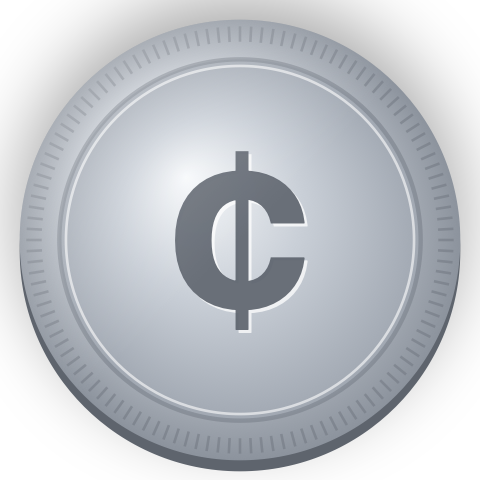
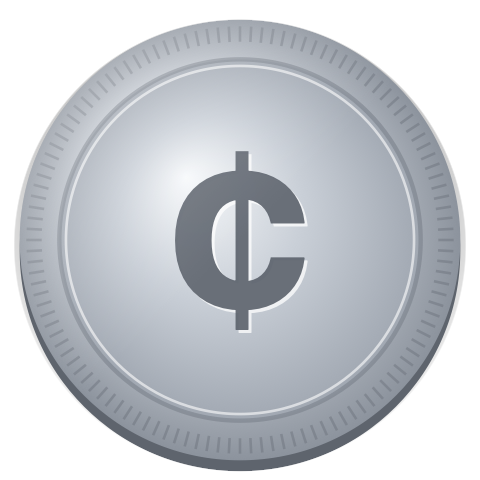
Website: remove the shadow baked into coin.png that was cut off at the image edge (the line above the coin)

Changed region(s): [[0.0, 0.0, 1.0, 0.6562]]

diff --git a/test2.html b/test2.html
@@ -509,7 +509,7 @@
     <div class="aurora" aria-hidden="true"><i></i><i></i><i></i></div>
     <div id="drift" aria-hidden="true"></div>
     <div class="wrap" style="position:relative">
-      <div class="brand"><img src="/img/coin.png" alt="" />Coin Purse</div>
+      <div class="brand"><img src="/img/coin.png?v=2" alt="" />Coin Purse</div>
       <div class="hero-grid">
         <div>
           <h1 id="headline"><span class="split">Your wallet is for the dollars.</span><br /><span class="silver split">This is for the small change.</span></h1>
@@ -523,7 +523,7 @@
         </div>
         <div class="coin-stage" aria-hidden="true">
           <div class="coin-shadow" id="coin-shadow"></div>
-          <div class="coin-3d" id="coin3d"><img class="coin" src="/img/coin.png" alt="" /></div>
+          <div class="coin-3d" id="coin3d"><img class="coin" src="/img/coin.png?v=2" alt="" /></div>
           <div class="orbit">
             <span class="chip a"><i style="background:#22c55e"></i>Tailgate tickets · 2</span>
             <span class="chip b"><i style="background:#f97316"></i>Coffee gift card</span>
@@ -595,7 +595,7 @@
             <h3>Locked with Face ID.</h3>
             <p>Sign in once and stay signed in.  Your coins are private to your account.  Free, with no ads and no tracking.</p>
           </div>
-          <div class="stagebox"><div class="mp"><div class="scr"><div class="fid"><div><img src="/img/coin.png" alt="" /><small>Coin Purse is locked</small><svg viewBox="0 0 24 24" fill="none" stroke="currentColor" stroke-width="1.6" stroke-linecap="round"><path d="M7 3H5a2 2 0 0 0-2 2v2M17 3h2a2 2 0 0 1 2 2v2M7 21H5a2 2 0 0 1-2-2v-2M17 21h2a2 2 0 0 0 2-2v-2M9 9v1M15 9v1M12 9v4h-1M9.5 16c1.5 1 3.5 1 5 0"/></svg></div></div></div></div></div>
+          <div class="stagebox"><div class="mp"><div class="scr"><div class="fid"><div><img src="/img/coin.png?v=2" alt="" /><small>Coin Purse is locked</small><svg viewBox="0 0 24 24" fill="none" stroke="currentColor" stroke-width="1.6" stroke-linecap="round"><path d="M7 3H5a2 2 0 0 0-2 2v2M17 3h2a2 2 0 0 1 2 2v2M7 21H5a2 2 0 0 1-2-2v-2M17 21h2a2 2 0 0 0 2-2v-2M9 9v1M15 9v1M12 9v4h-1M9.5 16c1.5 1 3.5 1 5 0"/></svg></div></div></div></div></div>
         </div>
       </div>
     </div>
@@ -620,7 +620,7 @@
   </section>
   <section class="cta" id="cta">
     <div class="wrap reveal">
-      <img src="/img/coin.png" alt="" />
+      <img src="/img/coin.png?v=2" alt="" />
       <h2>A simple app for simple things.</h2>
       <p class="lead">Snap it.  Find it.  Toss it.  Coin Purse is coming soon to the App Store for iPhone.</p>
       <span class="badge">Coming soon to the App Store</span>
@@ -655,7 +655,7 @@
         const drift = $('#drift');
         for (let i = 0; i < 14; i++) {
           const img = document.createElement('img');
-          img.src = '/img/coin.png'; img.alt = ''; img.className = 'drift-coin';
+          img.src = '/img/coin.png?v=2'; img.alt = ''; img.className = 'drift-coin';
           const size = 14 + Math.random() * 46;
           img.style.width = size + 'px';
           img.style.left = Math.random() * 100 + '%';
@@ -696,7 +696,7 @@
         const cta = $('#cta');
         for (let i = 0; i < 34; i++) {
           const img = document.createElement('img');
-          img.src = '/img/coin.png'; img.alt = ''; img.className = 'shower-coin';
+          img.src = '/img/coin.png?v=2'; img.alt = ''; img.className = 'shower-coin';
           const size = 18 + Math.random() * 34;
           img.style.width = size + 'px';
           img.style.left = Math.random() * 100 + '%';

diff --git a/test1.html b/test1.html
@@ -425,7 +425,7 @@
     <div class="aurora" aria-hidden="true"><i></i><i></i><i></i></div>
     <div id="drift" aria-hidden="true"></div>
     <div class="wrap" style="position:relative">
-      <div class="brand"><img src="/img/coin.png" alt="" />Coin Purse</div>
+      <div class="brand"><img src="/img/coin.png?v=2" alt="" />Coin Purse</div>
       <div class="hero-grid">
         <div>
           <h1 id="headline"><span class="split">Your wallet is for the dollars.</span><br /><span class="silver split">This is for the small change.</span></h1>
@@ -439,7 +439,7 @@
         </div>
         <div class="coin-stage" aria-hidden="true">
           <div class="coin-shadow" id="coin-shadow"></div>
-          <div class="coin-3d" id="coin3d"><img class="coin" src="/img/coin.png" alt="" /></div>
+          <div class="coin-3d" id="coin3d"><img class="coin" src="/img/coin.png?v=2" alt="" /></div>
           <div class="orbit">
             <span class="chip a"><i style="background:#22c55e"></i>Tailgate tickets · 2</span>
             <span class="chip b"><i style="background:#f97316"></i>Coffee gift card</span>
@@ -601,7 +601,7 @@
               <!-- 9. Face ID -->
               <div class="scene s-lock" data-scene="lock" id="lock">
                 <div>
-                  <img src="/img/coin.png" alt="" />
+                  <img src="/img/coin.png?v=2" alt="" />
                   <b>Coin Purse is locked</b>
                   <div class="faceid"><svg viewBox="0 0 24 24" fill="none" stroke="currentColor" stroke-width="1.6" stroke-linecap="round"><path d="M7 3H5a2 2 0 0 0-2 2v2M17 3h2a2 2 0 0 1 2 2v2M7 21H5a2 2 0 0 1-2-2v-2M17 21h2a2 2 0 0 0 2-2v-2"/><g class="scan"><path d="M9 9v1M15 9v1M12 9v4h-1M9.5 16c1.5 1 3.5 1 5 0"/></g></svg></div>
                   <small id="lock-text">Face ID</small>
@@ -641,7 +641,7 @@
   </section>
   <section class="cta" id="cta">
     <div class="wrap reveal">
-      <img src="/img/coin.png" alt="" />
+      <img src="/img/coin.png?v=2" alt="" />
       <h2>A simple app for simple things.</h2>
       <p class="lead">Snap it.  Find it.  Toss it.  Coin Purse is coming soon to the App Store for iPhone.</p>
       <span class="badge">Coming soon to the App Store</span>
@@ -990,7 +990,7 @@
         const drift = $('#drift');
         for (let i = 0; i < 14; i++) {
           const img = document.createElement('img');
-          img.src = '/img/coin.png'; img.alt = ''; img.className = 'drift-coin';
+          img.src = '/img/coin.png?v=2'; img.alt = ''; img.className = 'drift-coin';
           const size = 14 + Math.random() * 46;
           img.style.width = size + 'px';
           img.style.left = Math.random() * 100 + '%';
@@ -1031,7 +1031,7 @@
         const cta = $('#cta');
         for (let i = 0; i < 34; i++) {
           const img = document.createElement('img');
-          img.src = '/img/coin.png'; img.alt = ''; img.className = 'shower-coin';
+          img.src = '/img/coin.png?v=2'; img.alt = ''; img.className = 'shower-coin';
           const size = 18 + Math.random() * 34;
           img.style.width = size + 'px';
           img.style.left = Math.random() * 100 + '%';

diff --git a/test3.html b/test3.html
@@ -444,7 +444,7 @@
     <div class="aurora" aria-hidden="true"><i></i><i></i><i></i></div>
     <div id="drift" aria-hidden="true"></div>
     <div class="wrap" style="position:relative">
-      <div class="brand"><img src="/img/coin.png" alt="" />Coin Purse</div>
+      <div class="brand"><img src="/img/coin.png?v=2" alt="" />Coin Purse</div>
       <div class="hero-grid">
         <div>
           <h1 id="headline"><span class="split">Your wallet is for the dollars.</span><br /><span class="silver split">This is for the small change.</span></h1>
@@ -458,7 +458,7 @@
         </div>
         <div class="coin-stage" aria-hidden="true">
           <div class="coin-shadow" id="coin-shadow"></div>
-          <div class="coin-3d" id="coin3d"><img class="coin" src="/img/coin.png" alt="" /></div>
+          <div class="coin-3d" id="coin3d"><img class="coin" src="/img/coin.png?v=2" alt="" /></div>
           <div class="orbit">
             <span class="chip a"><i style="background:#22c55e"></i>Tailgate tickets · 2</span>
             <span class="chip b"><i style="background:#f97316"></i>Coffee gift card</span>
@@ -608,7 +608,7 @@
               <!-- 9. Face ID -->
               <div class="scene s-lock" data-scene="lock" id="lock">
                 <div>
-                  <img src="/img/coin.png" alt="" />
+                  <img src="/img/coin.png?v=2" alt="" />
                   <b>Coin Purse is locked</b>
                   <div class="faceid"><svg viewBox="0 0 24 24" fill="none" stroke="currentColor" stroke-width="1.6" stroke-linecap="round"><path d="M7 3H5a2 2 0 0 0-2 2v2M17 3h2a2 2 0 0 1 2 2v2M7 21H5a2 2 0 0 1-2-2v-2M17 21h2a2 2 0 0 0 2-2v-2"/><g class="scan"><path d="M9 9v1M15 9v1M12 9v4h-1M9.5 16c1.5 1 3.5 1 5 0"/></g></svg></div>
                   <small id="lock-text">Face ID</small>
@@ -646,7 +646,7 @@
   </section>
   <section class="cta" id="cta">
     <div class="wrap reveal">
-      <img src="/img/coin.png" alt="" />
+      <img src="/img/coin.png?v=2" alt="" />
       <h2>A simple app for simple things.</h2>
       <p class="lead">Snap it.  Find it.  Toss it.  Coin Purse is coming soon to the App Store for iPhone.</p>
       <span class="badge">Coming soon to the App Store</span>
@@ -995,7 +995,7 @@
         const drift = $('#drift');
         for (let i = 0; i < 14; i++) {
           const img = document.createElement('img');
-          img.src = '/img/coin.png'; img.alt = ''; img.className = 'drift-coin';
+          img.src = '/img/coin.png?v=2'; img.alt = ''; img.className = 'drift-coin';
           const size = 14 + Math.random() * 46;
           img.style.width = size + 'px';
           img.style.left = Math.random() * 100 + '%';
@@ -1036,7 +1036,7 @@
         const cta = $('#cta');
         for (let i = 0; i < 34; i++) {
           const img = document.createElement('img');
-          img.src = '/img/coin.png'; img.alt = ''; img.className = 'shower-coin';
+          img.src = '/img/coin.png?v=2'; img.alt = ''; img.className = 'shower-coin';
           const size = 18 + Math.random() * 34;
           img.style.width = size + 'px';
           img.style.left = Math.random() * 100 + '%';

diff --git a/index.html b/index.html
@@ -402,7 +402,7 @@
     <div class="aurora" aria-hidden="true"><i></i><i></i><i></i></div>
     <div id="drift" aria-hidden="true"></div>
     <div class="wrap" style="position:relative">
-      <div class="brand"><img src="/img/coin.png" alt="" />Coin Purse</div>
+      <div class="brand"><img src="/img/coin.png?v=2" alt="" />Coin Purse</div>
       <div class="hero-grid">
         <div>
           <h1 id="headline"><span class="split">Your wallet is for the dollars.</span><br /><span class="silver split">This is for the small change.</span></h1>
@@ -416,7 +416,7 @@
         </div>
         <div class="coin-stage" aria-hidden="true">
           <div class="coin-shadow" id="coin-shadow"></div>
-          <div class="coin-3d" id="coin3d"><img class="coin" src="/img/coin.png" alt="" /></div>
+          <div class="coin-3d" id="coin3d"><img class="coin" src="/img/coin.png?v=2" alt="" /></div>
           <div class="orbit">
             <span class="chip a"><i style="background:#22c55e"></i>Tailgate tickets · 2</span>
             <span class="chip b"><i style="background:#f97316"></i>Coffee gift card</span>
@@ -594,7 +594,7 @@
               <!-- 9. Face ID -->
               <div class="scene s-lock" data-scene="lock" id="lock">
                 <div>
-                  <img src="/img/coin.png" alt="" />
+                  <img src="/img/coin.png?v=2" alt="" />
                   <b>Coin Purse is locked</b>
                   <div class="faceid"><svg viewBox="0 0 24 24" fill="none" stroke="currentColor" stroke-width="1.6" stroke-linecap="round"><path d="M7 3H5a2 2 0 0 0-2 2v2M17 3h2a2 2 0 0 1 2 2v2M7 21H5a2 2 0 0 1-2-2v-2M17 21h2a2 2 0 0 0 2-2v-2"/><g class="scan"><path d="M9 9v1M15 9v1M12 9v4h-1M9.5 16c1.5 1 3.5 1 5 0"/></g></svg></div>
                   <small id="lock-text">Face ID</small>
@@ -705,7 +705,7 @@
 
   <section class="cta" id="cta">
     <div class="wrap reveal">
-      <img src="/img/coin.png" alt="" />
+      <img src="/img/coin.png?v=2" alt="" />
       <h2>A simple app for simple things.</h2>
       <p class="lead">Snap it.  Find it.  Toss it.  Coin Purse is coming soon to the App Store for iPhone.</p>
       <span class="badge">Coming soon to the App Store</span>
@@ -1059,7 +1059,7 @@
         const drift = $('#drift');
         for (let i = 0; i < 14; i++) {
           const img = document.createElement('img');
-          img.src = '/img/coin.png'; img.alt = ''; img.className = 'drift-coin';
+          img.src = '/img/coin.png?v=2'; img.alt = ''; img.className = 'drift-coin';
           const size = 14 + Math.random() * 46;
           img.style.width = size + 'px';
           img.style.left = Math.random() * 100 + '%';
@@ -1100,7 +1100,7 @@
         const cta = $('#cta');
         for (let i = 0; i < 34; i++) {
           const img = document.createElement('img');
-          img.src = '/img/coin.png'; img.alt = ''; img.className = 'shower-coin';
+          img.src = '/img/coin.png?v=2'; img.alt = ''; img.className = 'shower-coin';
           const size = 18 + Math.random() * 34;
           img.style.width = size + 'px';
           img.style.left = Math.random() * 100 + '%';
